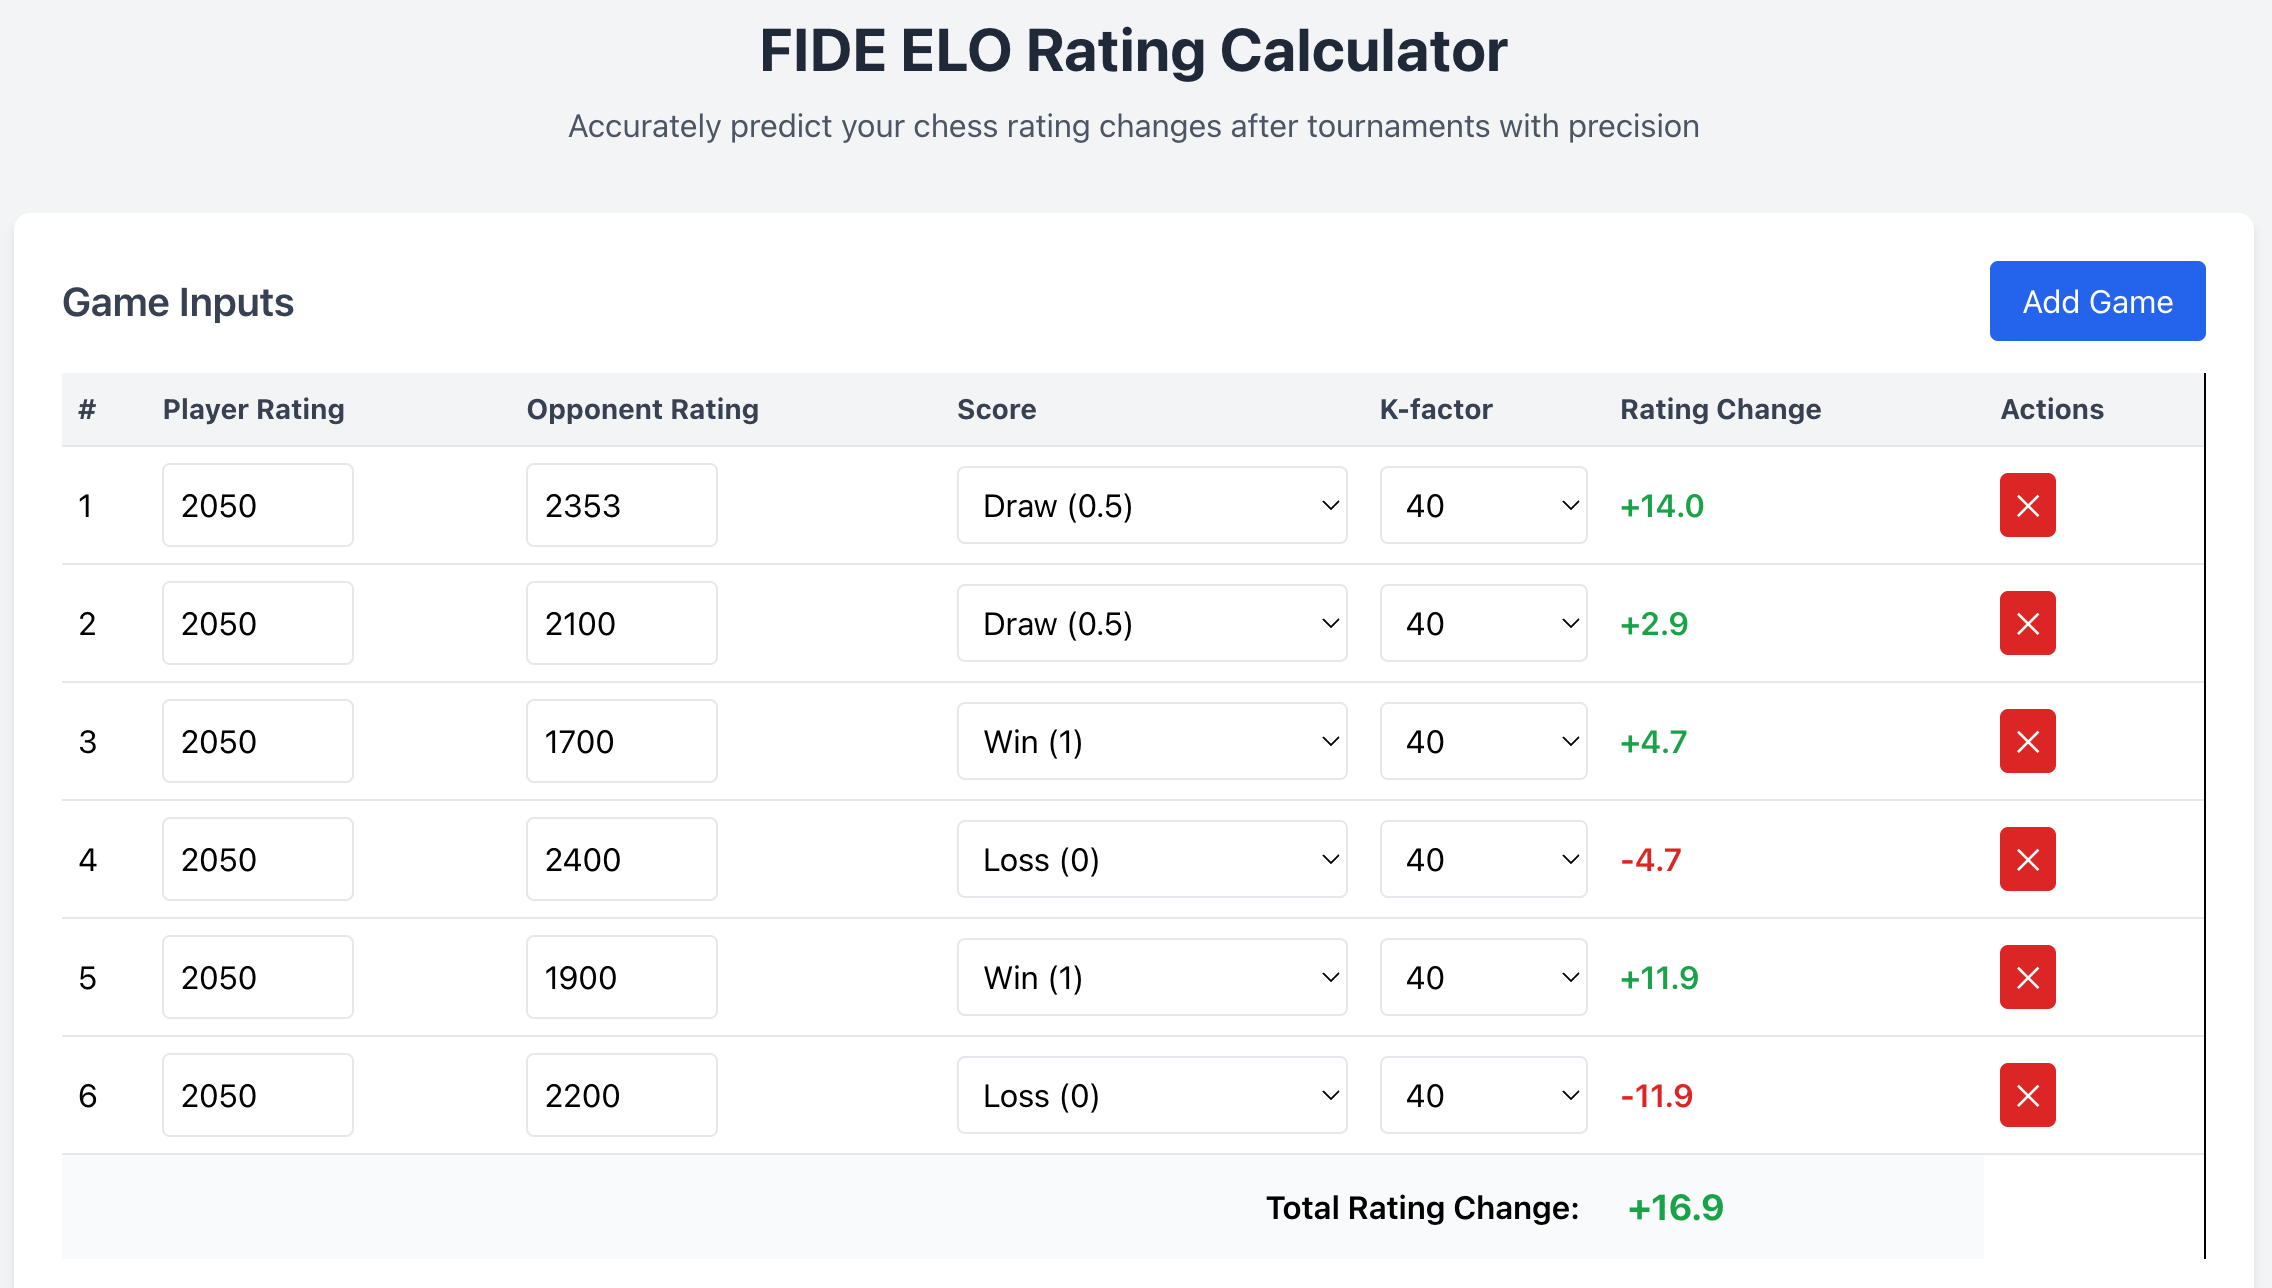
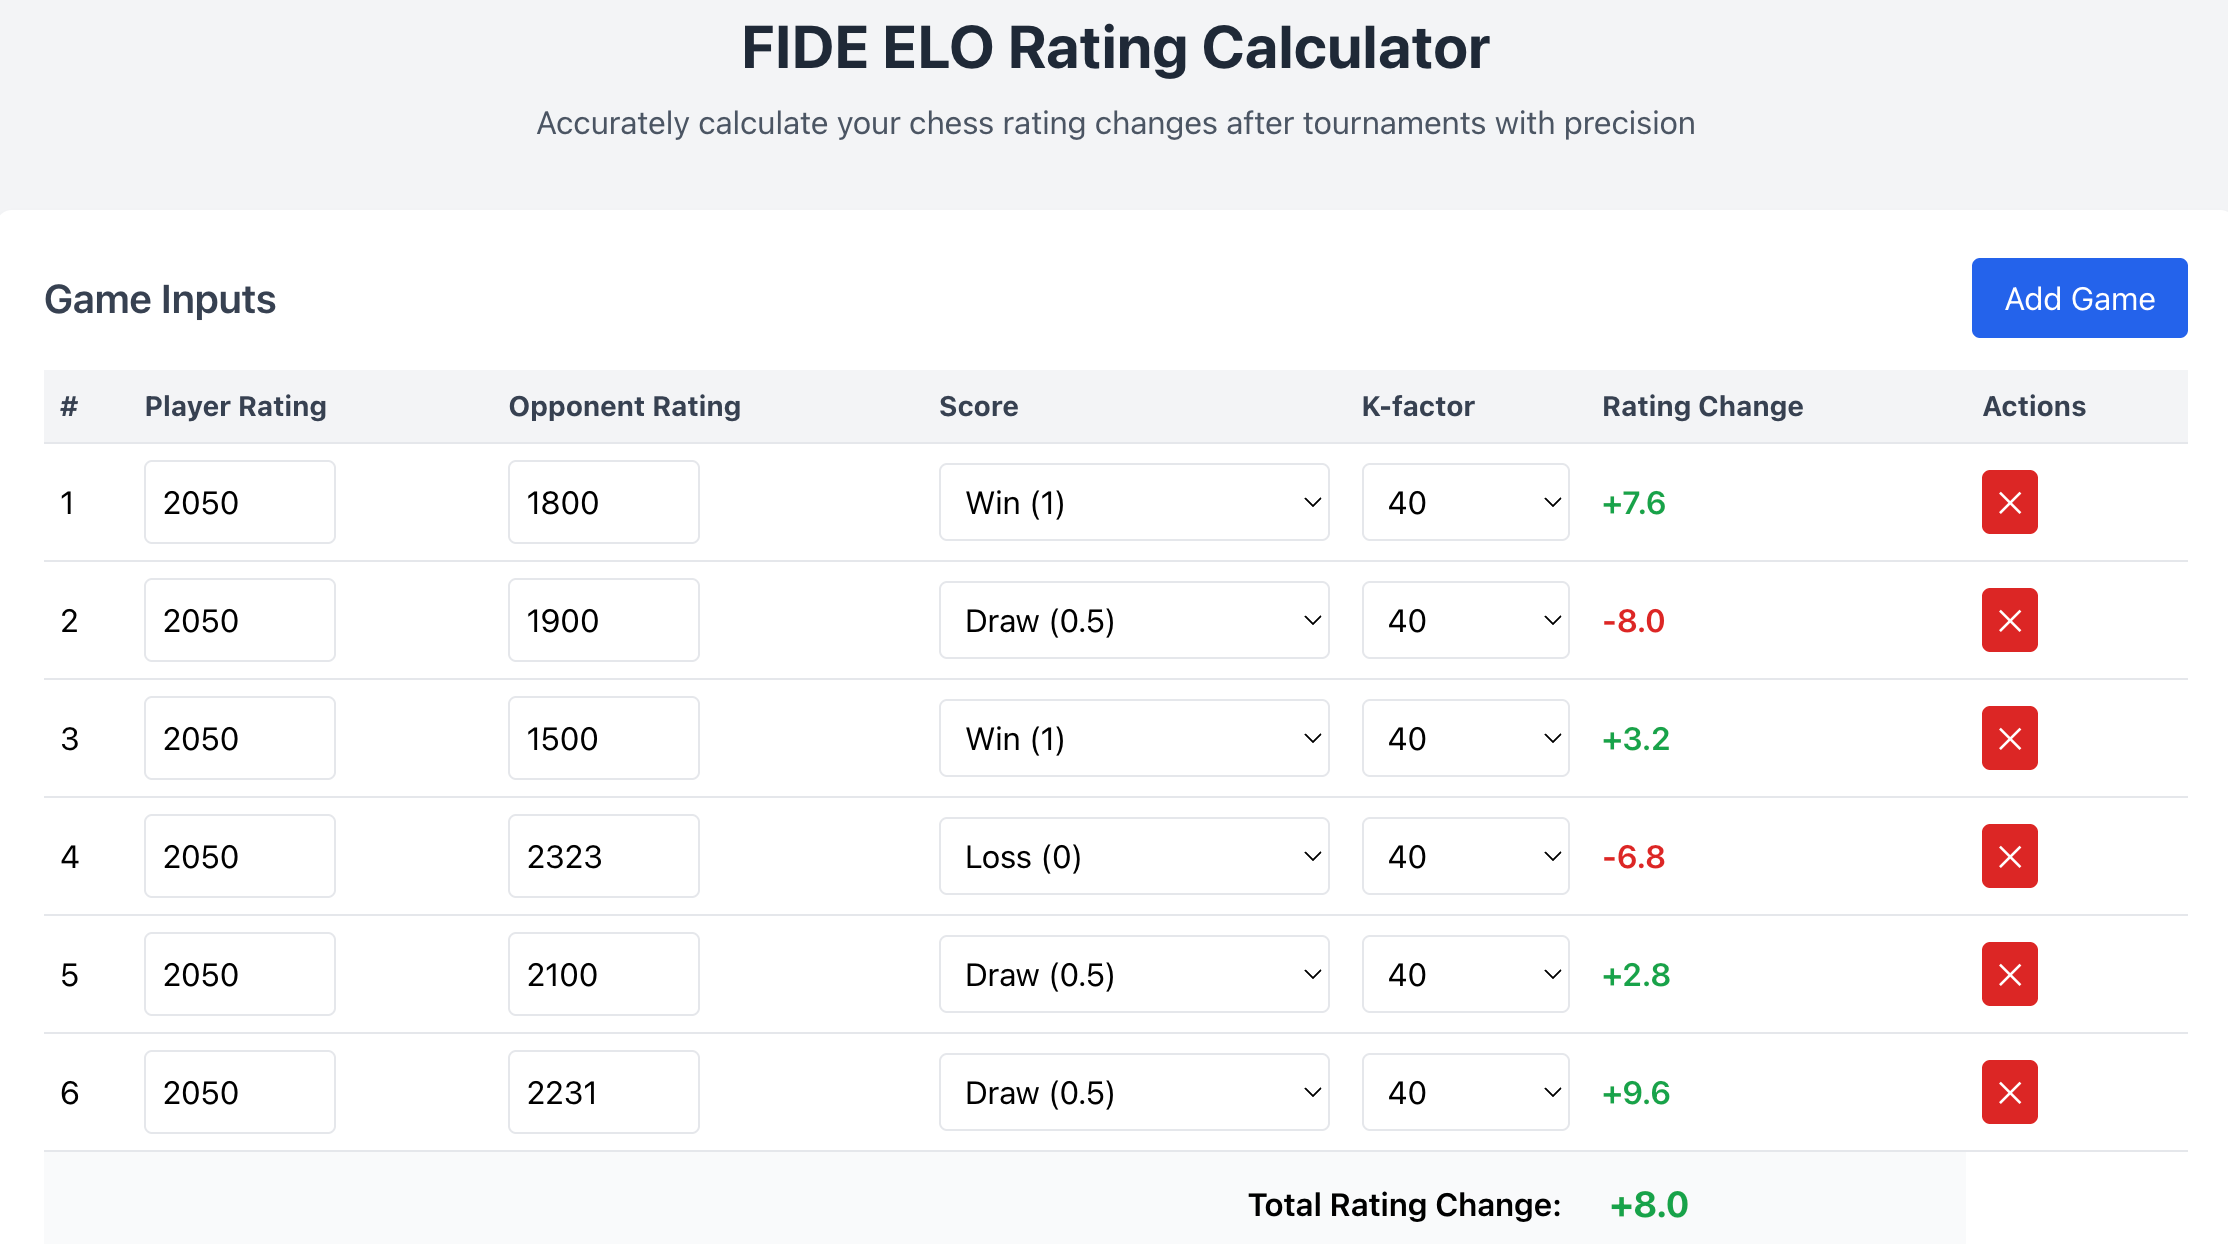
added explanations for FIDE handbook 8.e

diff --git a/FIDE-ELO-Calculator/index.html b/FIDE-ELO-Calculator/index.html
@@ -278,6 +278,136 @@
             </div>
         </section>
 
+        <!-- New Section for ELO Changes Calculation Examples -->
+        <section class="bg-white shadow-md rounded-lg p-6 mb-8">
+            <h2 class="text-xl font-semibold text-gray-700 mb-4">ELO Changes Calculation Examples</h2>
+            
+            <div class="mb-6">
+                <h3 class="font-medium text-gray-800 mb-3">Example 1: Rating Difference > 400 Points (Rule 8.3.1)</h3>
+                <div class="grid md:grid-cols-2 gap-6">
+                    <div class="p-4 bg-green-50 rounded-lg border border-green-200">
+                        <h4 class="font-semibold text-green-800 mb-2">Lower Rated Player Wins</h4>
+                        <ul class="list-disc pl-5 space-y-2 text-gray-600">
+                            <li><span class="font-semibold">Player Rating:</span> 1300</li>
+                            <li><span class="font-semibold">Opponent Rating:</span> 1800</li>
+                            <li><span class="font-semibold">Rating Difference:</span> 500 (capped at 400)</li>
+                            <li><span class="font-semibold">Score:</span> 1 (Win)</li>
+                            <li><span class="font-semibold">K-factor:</span> 30</li>
+                            <li><span class="font-semibold">Expected Score:</span> 0.08 (from table)</li>
+                            <li><span class="font-semibold">Rating Change:</span> 30 × (1 - 0.08) = +27.6</li>
+                        </ul>
+                        <p class="mt-3 text-sm text-gray-700 italic">
+                            Note: Even though the actual difference is 500 points, FIDE rule 8.3.1 caps it at 400 points for calculation purposes.
+                        </p>
+                    </div>
+                    
+                    <div class="p-4 bg-blue-50 rounded-lg border border-blue-200">
+                        <h4 class="font-semibold text-blue-800 mb-2">Higher Rated Player Draws</h4>
+                        <ul class="list-disc pl-5 space-y-2 text-gray-600">
+                            <li><span class="font-semibold">Player Rating:</span> 2050</li>
+                            <li><span class="font-semibold">Opponent Rating:</span> 1800</li>
+                            <li><span class="font-semibold">Rating Difference:</span> 250</li>
+                            <li><span class="font-semibold">Score:</span> 0.5 (Draw)</li>
+                            <li><span class="font-semibold">K-factor:</span> 40</li>
+                            <li><span class="font-semibold">Expected Score:</span> 0.81 (from table)</li>
+                            <li><span class="font-semibold">Rating Change:</span> 40 × (0.5 - 0.81) = -12.4</li>
+                        </ul>
+                    </div>
+                </div>
+            </div>
+            
+            <div class="mb-6">
+                <h3 class="font-medium text-gray-800 mb-3">Example 2: K-factor Adjustment (Rule 8.3.3)</h3>
+                <div class="p-4 bg-yellow-50 rounded-lg border border-yellow-200">
+                    <h4 class="font-semibold text-yellow-800 mb-2">K-factor Adjustment When K×n > 700</h4>
+                    <p class="text-gray-700 mb-3">
+                        When a player plays N = 21 games with a standard K-factor = 40, the product K×n = 40×21 = 840, which exceeds the maximum 700.
+                    </p>
+                    <p class="text-gray-700 mb-3">
+                        According to FIDE Handbook chapter 8.3.3, the K-factor must be adjusted to the largest whole number where K×n ≤ 700.
+                    </p>
+                    <div class="bg-white p-3 rounded-lg border border-gray-200 mb-3">
+                        <p class="font-mono text-center">K<sub>adjusted</sub> = ⌊700 ÷ n⌋ = ⌊700 ÷ 21⌋ = ⌊33.33...⌋ = 33</p>
+                    </div>
+                    <p class="text-gray-700">
+                        Therefore, for this player, the K-factor would be reduced from 40 to 33 for all games in this rating period.
+                        This ensures that K×n = 33×21 = 693, which is below the maximum 700.
+                    </p>
+                </div>
+            </div>
+            
+            <div class="mb-6">
+                <h3 class="font-medium text-gray-800 mb-3">Example 3: Rounding Rules (Rule 8.3.4)</h3>
+                <div class="p-4 bg-purple-50 rounded-lg border border-purple-200">
+                    <h4 class="font-semibold text-purple-800 mb-2">Multiple Games with Rounding</h4>
+                    <p class="text-gray-700 mb-3">
+                        FIDE Handbook chapter 8.3.4 states: "The Rating Change for a Rating Period is rounded to the nearest whole number. 0.5 is rounded away from zero."
+                    </p>
+                    <p class="text-gray-700 mb-3">
+                        Let's see how a player's rating changes after playing 2 games:
+                    </p>
+                    
+                    <div class="grid md:grid-cols-2 gap-4 mb-4">
+                        <div class="bg-white p-3 rounded-lg border border-gray-200">
+                            <h5 class="font-semibold text-gray-800 mb-2">Game 1:</h5>
+                            <ul class="list-disc pl-5 space-y-1 text-gray-600">
+                                <li><span class="font-semibold">Player Rating:</span> 2000</li>
+                                <li><span class="font-semibold">Opponent Rating:</span> 1800</li>
+                                <li><span class="font-semibold">Rating Difference:</span> 200</li>
+                                <li><span class="font-semibold">Score:</span> 0.5 (Draw)</li>
+                                <li><span class="font-semibold">K-factor:</span> 40</li>
+                                <li><span class="font-semibold">Expected Score:</span> 0.76 (from table)</li>
+                                <li><span class="font-semibold">Rating Change:</span> 40 × (0.5 - 0.76) = -10.4</li>
+                            </ul>
+                        </div>
+                        
+                        <div class="bg-white p-3 rounded-lg border border-gray-200">
+                            <h5 class="font-semibold text-gray-800 mb-2">Game 2:</h5>
+                            <ul class="list-disc pl-5 space-y-1 text-gray-600">
+                                <li><span class="font-semibold">Player Rating:</span> 2000</li>
+                                <li><span class="font-semibold">Opponent Rating:</span> 1600</li>
+                                <li><span class="font-semibold">Rating Difference:</span> 400</li>
+                                <li><span class="font-semibold">Score:</span> 0 (Loss)</li>
+                                <li><span class="font-semibold">K-factor:</span> 40</li>
+                                <li><span class="font-semibold">Expected Score:</span> 0.92 (from table)</li>
+                                <li><span class="font-semibold">Rating Change:</span> 40 × (0 - 0.92) = -36.8</li>
+                            </ul>
+                        </div>
+                    </div>
+                    
+                    <div class="bg-gray-50 p-4 rounded-lg border border-gray-300 mb-3">
+                        <h5 class="font-semibold text-gray-800 mb-2">Total Rating Change Calculation:</h5>
+                        <p class="font-mono mb-2">Game 1 Change + Game 2 Change = -10.4 + (-36.8) = -47.2</p>
+                        <p class="font-medium text-gray-700">According to FIDE Rule 8.3.4, we round to the nearest whole number:</p>
+                        <p class="font-mono text-lg text-center mt-2">-47.2 rounds to <span class="font-bold">-47</span></p>
+                        <p class="mt-3 text-sm text-gray-600 italic">
+                            Note: If the fractional part was exactly 0.5, it would round away from zero. For example, -10.5 would round to -11, and +10.5 would round to +11.
+                        </p>
+                    </div>
+                    
+                    <p class="text-gray-700 mt-3">
+                        Therefore, after these two games, the player's new rating would be:
+                        <span class="font-mono font-bold">2000 - 47 = 1953</span>
+                    </p>
+                </div>
+            </div>
+            
+            <div>
+                <h3 class="font-medium text-gray-800 mb-3">The Complete Rating Change Formula</h3>
+                <div class="p-4 bg-gray-50 rounded-lg border border-gray-200 text-center">
+                    <p class="font-mono text-lg mb-2">ΔR = K × (S<sub>a</sub> - S<sub>e</sub>)</p>
+                    <p class="text-gray-600 mb-2">Where:</p>
+                    <ul class="text-left text-gray-700 space-y-1 max-w-md mx-auto">
+                        <li>• ΔR = Rating change</li>
+                        <li>• K = K-factor (adjusted if K×n > 700)</li>
+                        <li>• S<sub>a</sub> = Actual score (1 for win, 0.5 for draw, 0 for loss)</li>
+                        <li>• S<sub>e</sub> = Expected score from probability table (based on rating difference, capped at 400)</li>
+                        <li>• S<sub>e</sub> = 1 / (1 + 10<sup>(R<sub>o</sub> - R<sub>p</sub>)/400</sup>) (mathematical formula)</li>
+                    </ul>
+                </div>
+            </div>
+        </section>
+
         <footer class="text-center text-gray-500 text-sm">
             <p>Based on the <a href="https://handbook.fide.com/chapter/B022024" class="text-blue-600 hover:underline" target="_blank">FIDE Handbook, Chapter B.022024</a></p>
             <p class="mt-2">

diff --git a/FIDE-ELO-Calculator/README.md b/FIDE-ELO-Calculator/README.md
@@ -1,8 +1,9 @@
 # FIDE ELO Calculator
 
-A web-based application for calculating chess rating changes according to FIDE (International Chess Federation) regulations.
+A web-based application for calculating chess rating changes according to FIDE (International Chess Federation) regulations (as of 22 Apr 2025). This calculator allows players to input their ratings, opponent ratings, and game results to determine the expected rating changes after multiple games.
 
 ![FIDE ELO Calculator Interface](FIDE-ELO-Calculator.png)
+
 ## Description
 
 This application allows chess players to calculate their rating changes after tournaments or individual games with precision. It implements the official FIDE ELO formula and supports multiple K-factors based on FIDE guidelines.
@@ -31,6 +32,13 @@ This project uses Cypress for end-to-end testing. Follow these steps to run the 
    ```
 
 2. **Run Tests in Interactive Mode**
+
+   ```
+   npm start
+   ```
+
+   This will start a local server and open the application in your default browser. Then, in another terminal, run:
+
    ```
    npm test
    ```
@@ -111,6 +119,11 @@ Additional rule: If the number of games (n) for a player on any list for a ratin
 
 No server configuration or installation is required as the application runs entirely in the browser.
 
+Alternatively, you can use a local server like `http-server` or `live-server` to serve the files.
+
+   ```
+   http://localhost:8080
+   ```
 ## Data Privacy
 
 All calculations and saved data are stored locally in your browser using Local Storage. No information is sent to any server or external service.

diff --git a/FIDE-ELO-Calculator/Prompt-Human.md b/FIDE-ELO-Calculator/Prompt-Human.md
@@ -69,3 +69,59 @@ K = 20 as long as a player's rating remains under 2400.
 K = 10 once a player's published rating has reached 2400 and remains at that level subsequently, even if the rating drops below 2400.
 K = 40 for all players until their 18th birthday, as long as their rating remains under 2300.
 ```
+
+# Additional features:
+
+Add to 'index.html' a section named "ELO Changes Calculation Example" just below the section "Important FIDE Rating Rules"
+
+This sections explain FIDE rules 8.3.1, 8.3.2, 8.3.3 and 8.3.4
+
+Using example
+
+Pls note the elo diff is greater than 400
+```
+Difference of more than 400 is counted as 400.
+Rating: 1300
+Opponent Rating: 1800
+Score: 1 / K factor: 30
+Rating Change is: +27.6
+```
+
+```
+Rating: 2050
+Opponent Rating: 1800
+Score: 0.5 / K factor: 40
+Rating Change is: -12.4
+```
+
+When a players plays N = 21 games, and his K factor = 40, 
+explain how K factor is adjusted (it is 21)
+
+Use maths formula (mathjax?) to write beautiful formula.
+
+Add a section to explain "FIDE Handbook chapter 8.3.4"
+
+Use example below
+
+A player plays 2 games:
+
+Rating: 2000
+Opponent Rating: 1800
+Score: 0.5 / K factor: 40
+
+Rating: 2000
+Opponent Rating: 1600
+Score: 0 / K factor: 40
+
+How his rating change? Explain the calculation as example.
+
+# Verification
+
+Verify that all the sections 8.3.1, 8.3.2, 8.3.3 and 8.3.4 are correctly implemented
+- Check that the K factor is set to 40 for new players until they have completed 30 games.
+
+# Cypress test
+
+Pls use cypress to test the following:
+- input data in the file 'fide-test-data.txt'
+
